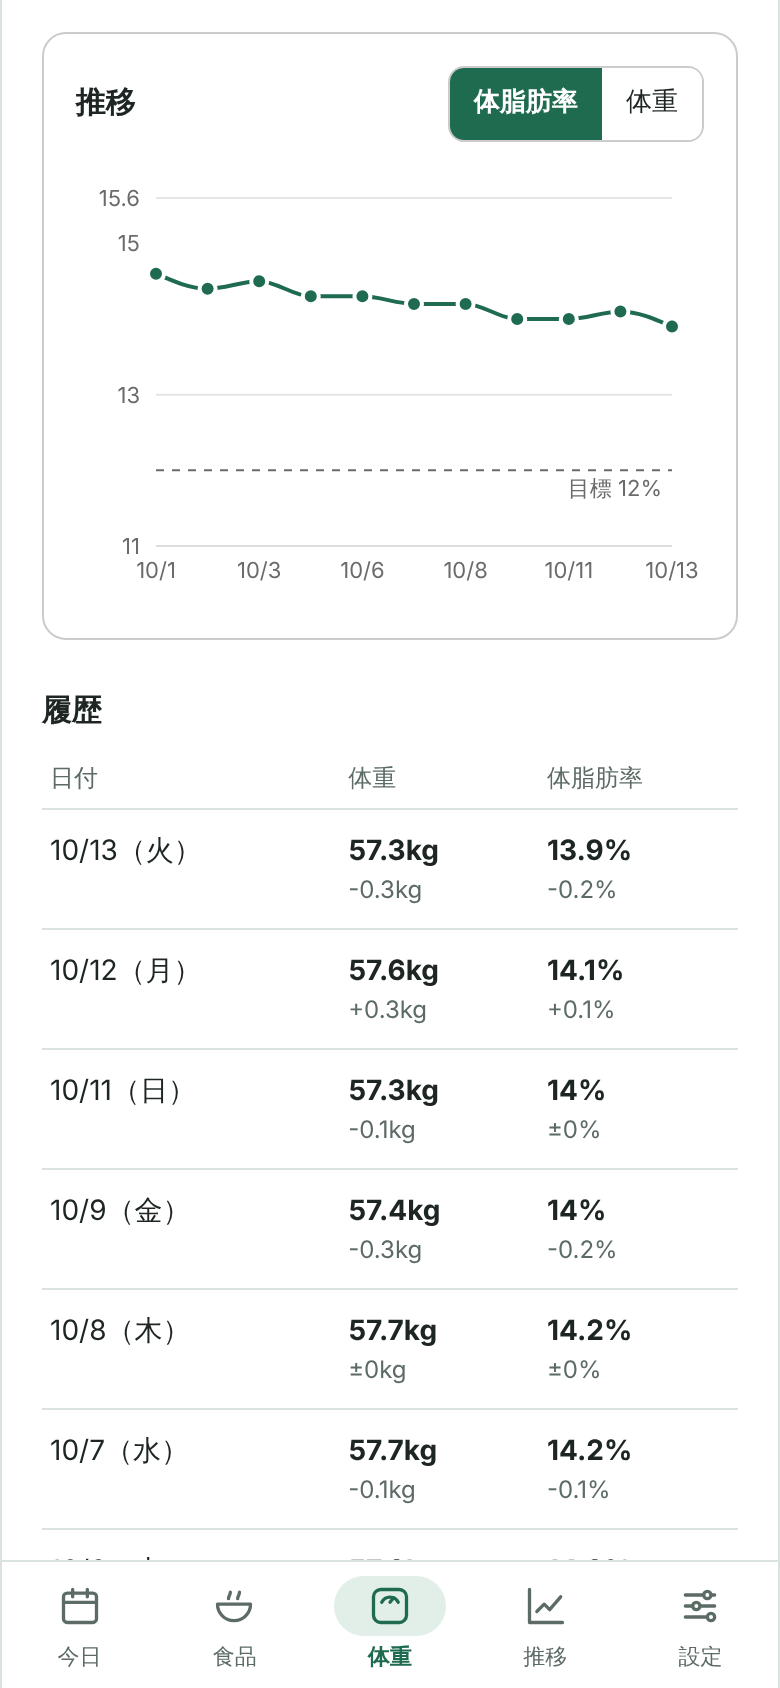
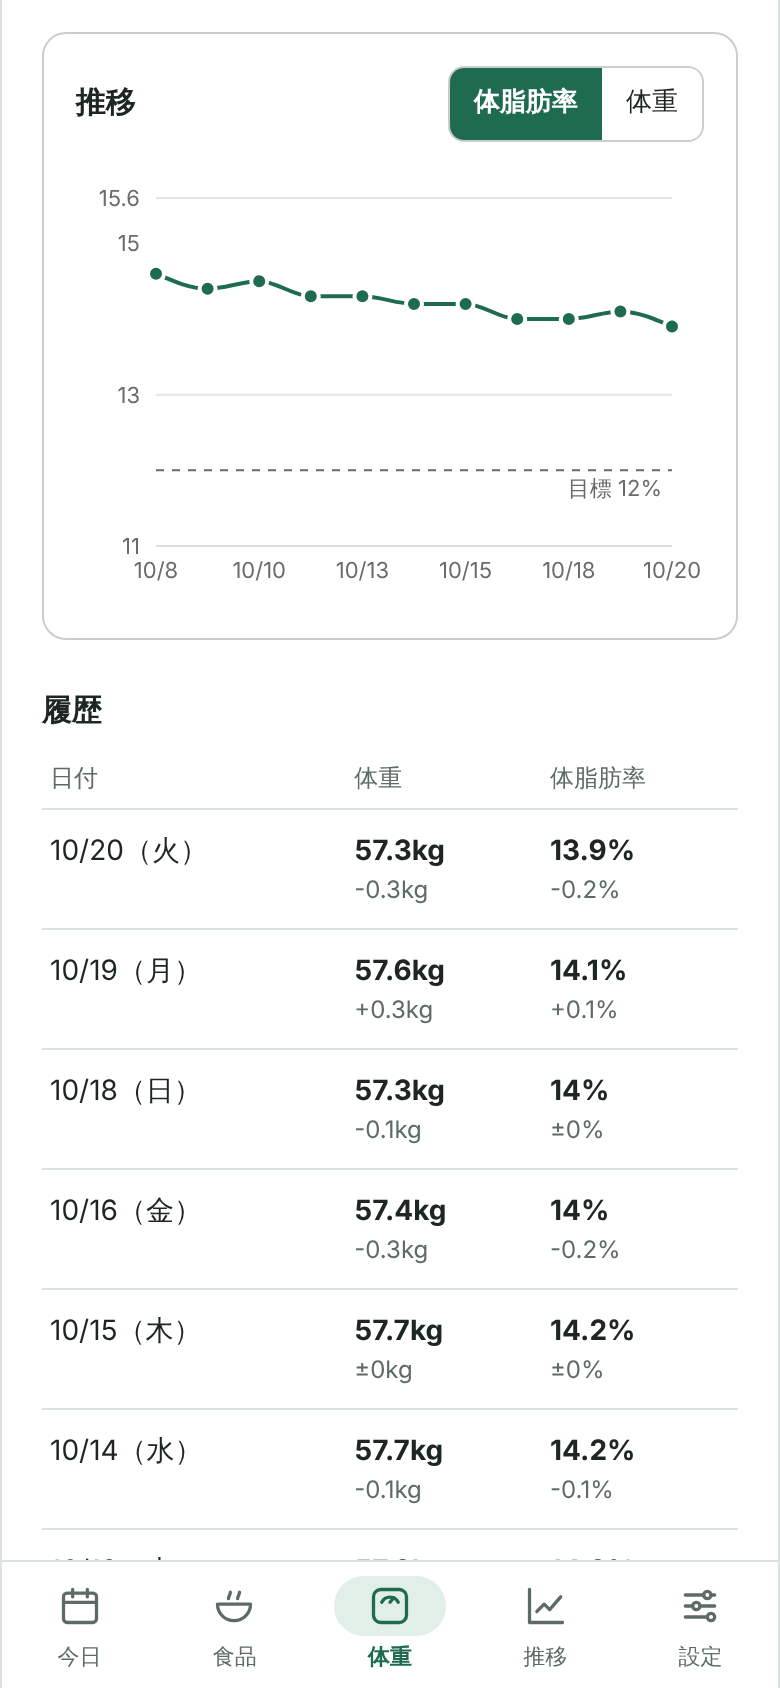
READMEのスクリーンショットと読み込みサイズを更新、よく食べるものの一覧を遅延読み込みに

diff --git a/src/components/MextFoodSearch.tsx b/src/components/MextFoodSearch.tsx
@@ -6,27 +6,36 @@ import {
   searchMextFoods,
   type MextFood,
 } from '../utils/mextFoods';
-import { searchPopularFoods } from '../utils/popularFoods';
+import type { searchPopularFoods } from '../utils/popularFoods';
 import styles from './MextFoodSearch.module.css';
+
+// よく食べるものの一覧（約400種類・約30kB）も、成分表と同じく検索画面を開いたときに初めて読み込む
+type SearchPopular = typeof searchPopularFoods;
 
 type Props = {
   onSelect: (food: MextFood) => void;
 };
 
 export function MextFoodSearch({ onSelect }: Props) {
-  const [foods, setFoods] = useState<MextFood[] | null>(null);
+  // 成分表と、よく食べるものの検索関数。両方そろってから検索できるようにする
+  const [loaded, setLoaded] = useState<{ foods: MextFood[]; searchPopular: SearchPopular } | null>(
+    null,
+  );
   const [loadError, setLoadError] = useState(false);
   const [query, setQuery] = useState('');
 
   useEffect(() => {
-    loadMextFoods()
-      .then(setFoods)
+    Promise.all([loadMextFoods(), import('../utils/popularFoods')])
+      .then(([foods, popularModule]) =>
+        setLoaded({ foods, searchPopular: popularModule.searchPopularFoods }),
+      )
       .catch(() => setLoadError(true));
   }, []);
 
+  const foods = loaded?.foods ?? null;
   const keyword = query.trim();
   // よく食べるもの（分かりやすい名前）を上に出し、同じ食品は下の検索結果から外す
-  const popular = foods && keyword ? searchPopularFoods(foods, keyword) : [];
+  const popular = loaded && keyword ? loaded.searchPopular(loaded.foods, keyword) : [];
   const popularCodes = new Set(popular.map((food) => food.code));
   const results = foods
     ? searchMextFoods(foods, keyword).filter((food) => !popularCodes.has(food.code))
